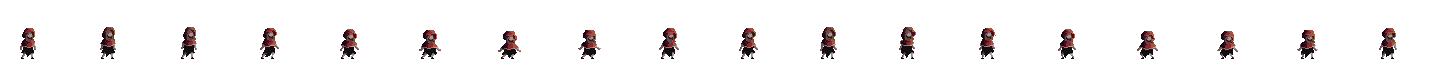
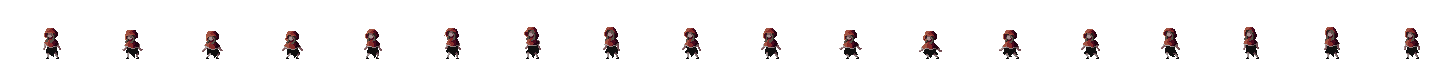
Character Animation bug fixed.

Changed region(s): [[0.0, 0.35, 1.0, 0.75]]

diff --git a/Assets/Scripts/CharacterController2D.cs b/Assets/Scripts/CharacterController2D.cs
@@ -52,29 +52,17 @@ public class CharacterController2D : MonoBehaviour
 
         if (Input.GetKeyDown(KeyCode.Mouse0))
         {
-            if (horizontalMove == 0)
-            {
-                gameObject.GetComponent<SpriteRenderer>().flipX = true;
-            }
             IsAttacking = true;
             characterAnimator.SetBool("IsAttackingL", true);
-            gameObject.GetComponent<SpriteRenderer>().flipX = false;
             float attackDelay = 1.02f;
-            //Invoke("AttackComplete", attackDelay);
             StartCoroutine(AttackComplete());
         }
 
         if (Input.GetKeyDown(KeyCode.Mouse1))
         {
-            if(horizontalMove == 0)
-            {
-                gameObject.GetComponent<SpriteRenderer>().flipX = true;
-            }
             IsAttacking = true;
             characterAnimator.SetBool("IsAttackingH", true);
-            gameObject.GetComponent<SpriteRenderer>().flipX = false;
             float attackDelay = 1.02f;
-            //Invoke("AttackComplete", attackDelay);
             StartCoroutine(AttackComplete());
 
         }
@@ -87,14 +75,6 @@ public class CharacterController2D : MonoBehaviour
             dashCoolDownTimer = 0f;
         }
 
-        if (horizontalMove != 0)
-        {
-            gameObject.GetComponent<SpriteRenderer>().flipX = true;
-        }
-        else
-        {
-            gameObject.GetComponent<SpriteRenderer>().flipX = false;
-        }
 
         characterAnimator.SetFloat("Speed", Mathf.Abs(horizontalMove));
         characterAnimator.SetFloat("YVelocity", rb.velocity.y);
@@ -104,10 +84,9 @@ public class CharacterController2D : MonoBehaviour
     {
         yield return new WaitForSeconds(1.02f);
         Debug.Log("Hit");
-        gameObject.GetComponent<SpriteRenderer>().flipX = true;
         characterAnimator.SetBool("IsAttackingL", false);
         characterAnimator.SetBool("IsAttackingH", false);
-        yield return new WaitForSeconds(0.2f);
+        yield return new WaitForSeconds(0.3f);
         IsAttacking = false;
         
     }
